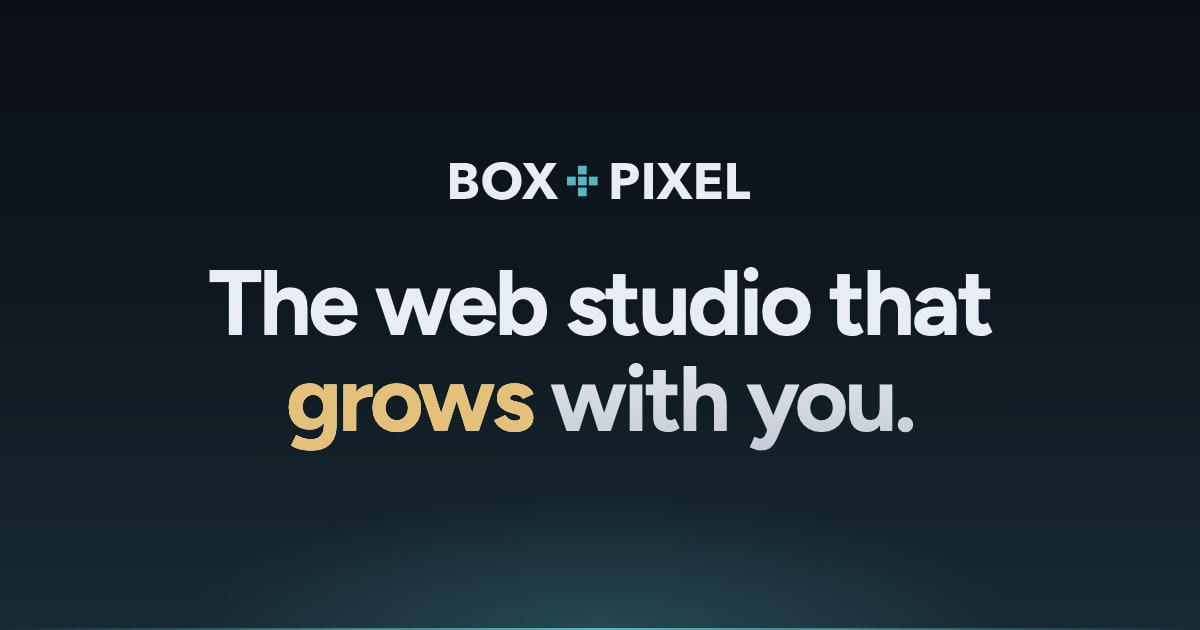
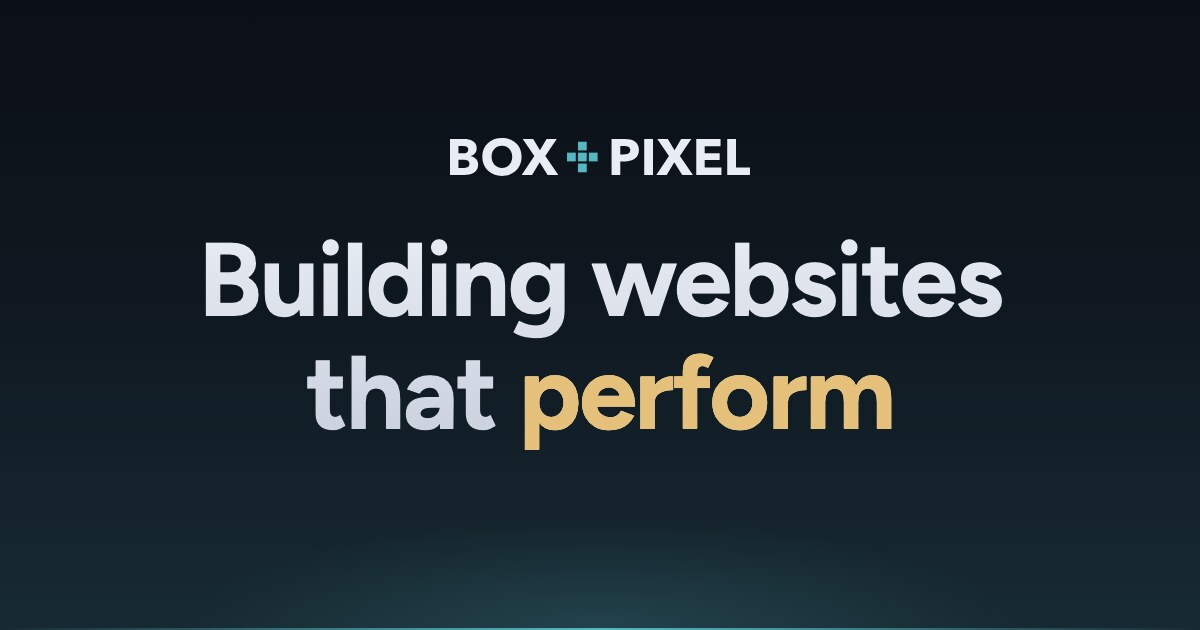
Change home headline to "Building websites that perform"
Accent "perform" in yellow and regenerate the Open Graph share image
to match.

Changed region(s): [[0.1542, 0.3619, 0.8325, 0.7238], [0.37, 0.2111, 0.6475, 0.3317]]

diff --git a/CLAUDE.md b/CLAUDE.md
@@ -285,7 +285,7 @@ Images live in `/public/images/`. Reference them as `/images/filename.ext`.
 | Favicon           | `/public/favicon.svg`             | `#56B6C2`                        | Root layout          |
 | Headshot          | `/public/images/brian-gunzenhauser.webp` | 600×600, pre-cropped circle, transparent corners | About (placeholder, from briangunzenhauser.com) |
 | Headshot (1x/2x)  | `/public/images/brian-gunzenhauser-384.webp` | 384×384 resize of the above, 27 KB | About `src`; the 600px original is the `srcset` fallback for 3x screens |
-| OG default image  | `/public/images/og-default.jpg`   | 1200×630, logo + home headline on the horizon backdrop | Share previews, every page (`Layout` `image` prop overrides) |
+| OG default image  | `/public/images/og-default.jpg`   | 1200×630, logo + home headline ("Building websites that perform") on the horizon backdrop | Share previews, every page (`Layout` `image` prop overrides) |
 | Apple touch icon  | `/public/apple-touch-icon.png`    | 180×180, cyan mark on `#0B0F17`  | iOS home screen, iMessage fallback |
 
 **The site is dark everywhere, so both header and footer use `logo-dark.svg`** (the light-ink variant). `logo.svg` is kept, recolored to match, for light contexts off-site — email signatures, decks, invoices.
@@ -301,7 +301,7 @@ Add rows here as section-specific images are assigned.
 - **Tone:** Senior, precise, client-safe. Expert without being clubby.
 - **Style:** Dark-first and editor-derived. Near-black navy ground, hairline structure, monospace on chrome, one cyan accent doing the work.
 - **Visual references / inspiration:** Code editors (One Dark, Tokyo Night); the Linear / Vercel register for layout restraint.
-- **The positioning (Sept 2026, in revision):** *the long tail is the business.* Design and builds are the entry; ongoing stewardship on retainer is the relationship and the revenue. Audience is **designers/agencies and site owners, as equals**. See `refs/box-and-pixel-positioning-2026-09.md`, which supersedes parts of the Aug doc. Headline: *"The web studio that grows with you."* (Oct 2026; replaced "The development studio your site keeps."). "Studio" allows for growth; "grows" carries the long-tail relationship. **Never claim single-person accountability** ("one senior developer"): it raises bus-factor risk for the buyer. Only claim continuity safeguards that are true: domain and hosting are client-owned; repos and documentation are not yet (see the Sept doc). Sell stewardship **outcomes** (health, performance, security, roadmap), never hours. **Do not regress to a fidelity claim.** Built-as-drawn is proof, below the fold, never the lead.
+- **The positioning (Sept 2026, in revision):** *the long tail is the business.* Design and builds are the entry; ongoing stewardship on retainer is the relationship and the revenue. Audience is **designers/agencies and site owners, as equals**. See `refs/box-and-pixel-positioning-2026-09.md`, which supersedes parts of the Aug doc. Headline: *"Building websites that perform"* with "perform" accented in yellow (Oct 21, 2026; replaced "The web studio that grows with you.", which remains the footer tagline). **Never claim single-person accountability** ("one senior developer"): it raises bus-factor risk for the buyer. Only claim continuity safeguards that are true: domain and hosting are client-owned; repos and documentation are not yet (see the Sept doc). Sell stewardship **outcomes** (health, performance, security, roadmap), never hours. **Do not regress to a fidelity claim.** Built-as-drawn is proof, below the fold, never the lead.
 - **The designer guardrail:** B+P now openly owns the client relationship after launch (the client pays B+P directly). The old rule against headlines that put B+P in front of the client is **retired**. The new test: **no copy may threaten the designer's *design* work.** Frame the long tail as relief ("launch it and hand it off; we keep it healthy and send the design work back to you").
 - **Voice: no "we", "us" or "our".** Box + Pixel is one person today, and clients know it. "We" claims a team that doesn't exist; revisit once a PM or partner joins. Pick the voice by what the sentence does:
   - **Headlines:** drop the subject and lead with the reader — "Your design, built and kept running."
